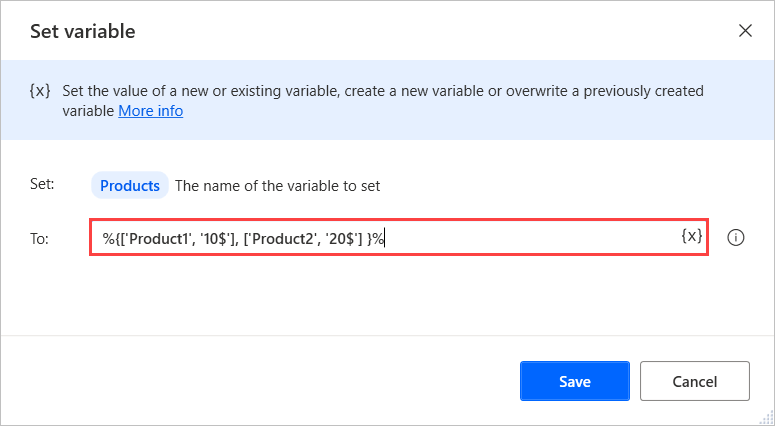
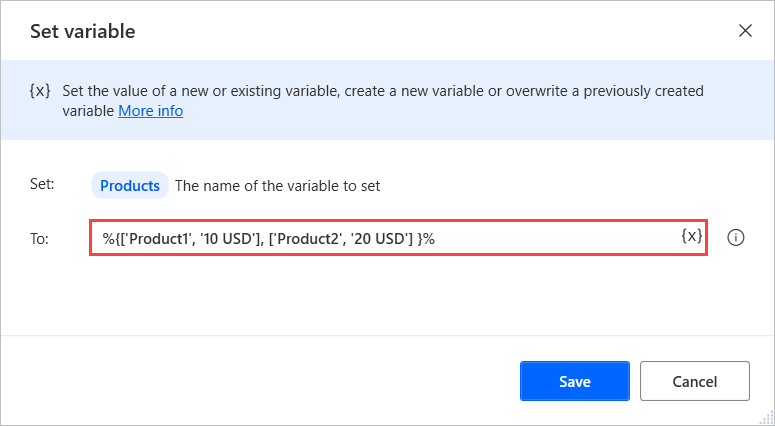
New links and screenshots in the variable datatypes article

Changed region(s): [[0.2787, 0.5188, 0.5574, 0.5798], [0.8981, 0.5188, 0.929, 0.5493]]

diff --git a/articles/ui-flows/desktop/variable-data-types.md b/articles/ui-flows/desktop/variable-data-types.md
@@ -24,11 +24,11 @@ Some of these data types are widely used throughout the application, such as **n
 
 ## Simple data types
 
-- **Text value** - Any kind of text, from email addresses to the text contents of a .txt file. You can find all the available properties of the text values in the [respective documentation article](https://review.docs.microsoft.com/en-us/power-automate/ui-flows/desktop/datatype-properties#texts). 
+- **Text value** - Any kind of text, from email addresses to the text contents of a .txt file. You can find all the available properties of the text values in the [Text data type properties](https://review.docs.microsoft.com/en-us/power-automate/ui-flows/desktop/datatype-properties#texts). 
   
   To create a **Text value** variable, use the **Set Variable action** and populate the input parameter with the desired text without any notation.
 
-  ![An example of a created Text value variable.](media\variable-data-types\create-text0variable.png)
+  ![An example of a created Text value variable.](media\variable-data-types\create-text-variable.png)
 
 - **Numeric value** - This is the type applied to numbers. Only this data type can be used in mathematical operations. 
 
@@ -46,7 +46,7 @@ Some of these data types are widely used throughout the application, such as **n
 
 - **List** - Collection of other items. Lists are the equivalent of single-dimension arrays in programming terms. 
 
-- **Datarow** - A data row contains the values of a single row of a datatable. You can find all the available properties of the datarows in the [respective documentation article](https://review.docs.microsoft.com/en-us/power-automate/ui-flows/desktop/datatype-properties#datarows). 
+- **Datarow** - A data row contains the values of a single row of a datatable. You can find all the available properties of the datarows in the [Datarow data type properties](https://review.docs.microsoft.com/en-us/power-automate/ui-flows/desktop/datatype-properties#datarows). 
 
 - **Datatable** - Contains data in a tabular form. Datatables are the equivalent of a two-dimensional array in programming terms. 
 
@@ -74,7 +74,7 @@ In the example below, the flow stores the first number of the previously display
 
 A common practice is to use a **For each** action to iterate through the items of a list.
 
- You can find all the available properties of the lists in the [respective documentation article](https://review.docs.microsoft.com/en-us/power-automate/ui-flows/desktop/datatype-properties#lists). 
+ You can find all the available properties of the lists in the [List data type properties](https://review.docs.microsoft.com/en-us/power-automate/ui-flows/desktop/datatype-properties#lists). 
 
 ### Datatables
 
@@ -88,7 +88,7 @@ Power Automate Desktop doesn't provide an action way to create directly a datata
 
 Alternatively, you can create a data table using the **Set variable** action and the programming array notation. 
 
-This notation consists of multiple single-dimension arrays separated by commas and enclosed in curly brackets. The final expression must have the following form: **%{['Product1', '10$'], ['Product2', '20$']}%**.
+This notation consists of multiple single-dimension arrays separated by commas and enclosed in curly brackets. The final expression must have the following form: **%{['Product1', '10 USD'], ['Product2', '20 USD']}%**.
 
 ![An example of a datatable variable.](media\data-tables\create-data-table-variable.png)
 
@@ -102,7 +102,7 @@ If you want to access a specific column in a datable that contains column header
 
 If you loop through a datatable with a **For Each** action, the variable that will contain the current iteration’s data is considered to be a data row. 
 
-To find infromation about the available properties of the datatables, please visit the [respective documentation article](https://review.docs.microsoft.com/en-us/power-automate/ui-flows/desktop/datatype-properties#datatables). 
+To find infromation about the available properties of the datatables, please visit the [Datatable data type properties](https://review.docs.microsoft.com/en-us/power-automate/ui-flows/desktop/datatype-properties#datatables). 
 
 ### Known issues and limitations
 
@@ -113,15 +113,15 @@ To find infromation about the available properties of the datatables, please vis
 
 - **Web browser instance** – Contains a browser instance created through the **Launch new Internet Explorer** or other browser launching actions. 
 
-  To find information about the available properties of the web browser instances, please visit the [respective documentation article](https://review.docs.microsoft.com/en-us/power-automate/ui-flows/desktop/datatype-properties#web-browser-instances). 
+  To find information about the available properties of the web browser instances, please visit the [Web browser instance data type properties](https://review.docs.microsoft.com/en-us/power-automate/ui-flows/desktop/datatype-properties#web-browser-instances). 
 
 - **Window instance** – Contains a window instance created through the **Get window** action.
 
-  To find information about the available properties of the windows instances, please visit the [respective documentation article](https://review.docs.microsoft.com/en-us/power-automate/ui-flows/desktop/datatype-properties#window-instance). 
+  To find information about the available properties of the windows instances, please visit the [Window instance data type properties](https://review.docs.microsoft.com/en-us/power-automate/ui-flows/desktop/datatype-properties#window-instance). 
 
 - **Excel instance** – Contains an Excel instance created through the **Launch Excel** action.
 
-  To find information about the available properties of the Excel instances, please visit the [respective documentation article](https://review.docs.microsoft.com/en-us/power-automate/ui-flows/desktop/datatype-properties#excel-instance). 
+  To find information about the available properties of the Excel instances, please visit the [Excel instance data type properties](https://review.docs.microsoft.com/en-us/power-automate/ui-flows/desktop/datatype-properties#excel-instance). 
 
 - **Outlook instance** - Contains an Outlook instance created through the **Launch Outlook** action.
 
@@ -129,15 +129,15 @@ To find infromation about the available properties of the datatables, please vis
 
 - **SQL connection** - Contains a connection to an SQL database established through the **Open SQL connection** action.
 
-  You can find all the available properties of the SQL connections in the [respective documentation article](https://review.docs.microsoft.com/en-us/power-automate/ui-flows/desktop/datatype-properties#sql-connection). 
+  You can find all the available properties of the SQL connections in the [SQL connection data type properties](https://review.docs.microsoft.com/en-us/power-automate/ui-flows/desktop/datatype-properties#sql-connection). 
 
 - **Exchange connection** - Contains a connection to an Exchange server established through the **Connect to Exchange server** action.
 
-  You can find all the available properties of the Exchange connections in the [respective documentation article](https://review.docs.microsoft.com/en-us/power-automate/ui-flows/desktop/datatype-properties#exchange-connection). 
+  You can find all the available properties of the Exchange connections in the [Exchange connection data type properties](https://review.docs.microsoft.com/en-us/power-automate/ui-flows/desktop/datatype-properties#exchange-connection). 
 
 - **FTP connection** - Contains an FTP connection created through the **Open FTP connection** and **Open secure FTP connection** actions.
 
-  You can find all the available properties of the FTP connections in  the [respective documentation article](https://review.docs.microsoft.com/en-us/power-automate/ui-flows/desktop/datatype-properties#ftp-connection). 
+  You can find all the available properties of the FTP connections in  the [FTP connection data type properties](https://review.docs.microsoft.com/en-us/power-automate/ui-flows/desktop/datatype-properties#ftp-connection). 
 
 ## Others
 
@@ -148,7 +148,7 @@ To find infromation about the available properties of the datatables, please vis
 - **Group member** - Represents a member of a specified Active Directory group.
 - **User info** - Contains information about a specified Active Directory user.
 
-To find all the available properties of the Active Directory data types, please visit the [respective documentation article](https://review.docs.microsoft.com/en-us/power-automate/ui-flows/desktop/datatype-properties#active-directory-entry). 
+To find all the available properties of the Active Directory data types, please visit the [Active Directory data type properties](https://review.docs.microsoft.com/en-us/power-automate/ui-flows/desktop/datatype-properties#active-directory-entry). 
 
 ### AWS
 
@@ -159,7 +159,7 @@ To find all the available properties of the Active Directory data types, please 
 - **EBS snapshot** - Represents an EBS snapshot.
 - **EBS volume** - Represents an EBS volume.
 
-To find the available properties of the AWS data types, please visit the [respective documentation article](https://review.docs.microsoft.com/en-us/power-automate/ui-flows/desktop/datatype-properties#ebs-snapshot). 
+To find the available properties of the AWS data types, please visit the [AWS data type properties](https://review.docs.microsoft.com/en-us/power-automate/ui-flows/desktop/datatype-properties#ebs-snapshot). 
 
 ### Azure
 
@@ -171,15 +171,15 @@ To find the available properties of the AWS data types, please visit the [respec
 - **Azure virtual machine info** - Contains information about an Azure virtual machine.
 - **Azure subscription** - Represents a retrieved Azure subscription.
 
-To find the available properties of the Azure data types, please visit the [respective documentation article](https://review.docs.microsoft.com/en-us/power-automate/ui-flows/desktop/datatype-properties#azure-managed-disk). 
+To find the available properties of the Azure data types, please visit the [Azure data type properties](https://review.docs.microsoft.com/en-us/power-automate/ui-flows/desktop/datatype-properties#azure-managed-disk). 
 
 ### CMD
 
 - **CMD session** - Contains a CMD session created through the **Open CMD session** action.
 
-To find the available properties of the CMD data types, please visit the [respective documentation article](https://review.docs.microsoft.com/en-us/power-automate/ui-flows/desktop/datatype-properties#cmd-session). 
+To find the available properties of the CMD data types, please visit the [CMD data type properties](https://review.docs.microsoft.com/en-us/power-automate/ui-flows/desktop/datatype-properties#cmd-session). 
 
-### Dates and Time
+### Dates and time
 
 - **Datetime** - Contains date and time information. To create a datetime variable through the **Set Variable action**, populate the input parameter with the expressions **%d"yyyy-MM-dd HH:mm:ss.ff+zzz"%**, where:
 
@@ -194,33 +194,33 @@ To find the available properties of the CMD data types, please visit the [respec
   | **ff**   | Miliseconds |
   | **zzz**  | UTC Offset	 |
 
-To find the available properties of the datetime values, please visit the [respective documentation article](https://review.docs.microsoft.com/en-us/power-automate/ui-flows/desktop/datatype-properties#dates). 
+To find the available properties of the datetime values, please visit the [Dates and time data type properties](https://review.docs.microsoft.com/en-us/power-automate/ui-flows/desktop/datatype-properties#dates). 
 
 ### Email
 
 - **Mail message** - Represents an email message. The **Retrieve emails** action populates these variables.
 
-To find the available properties of the email messages, please visit the[respective documentation article](https://review.docs.microsoft.com/en-us/power-automate/ui-flows/desktop/datatype-properties#mail-messages). 
+To find the available properties of the email messages, please visit the [Email data type properties](https://review.docs.microsoft.com/en-us/power-automate/ui-flows/desktop/datatype-properties#mail-messages). 
 
 ### Exchange
 
 - **Exchange mail message** - Represents an email message retrieved from an Exchange server. The **Retrieve Exchange email messages** action populates these variables.
 
-To find the available properties of the Exchange email messages, please visit the [respective documentation article](https://review.docs.microsoft.com/en-us/power-automate/ui-flows/desktop/datatype-properties#exchange-mail-messages). 
+To find the available properties of the Exchange email messages, please visit the [Exchange data type properties](https://review.docs.microsoft.com/en-us/power-automate/ui-flows/desktop/datatype-properties#exchange-mail-messages). 
 
 ### Files and folders
 
 - **File** - Represents a file.
 - **Folder** - Represents a folder.
 
-To find the available properties of the files and folders, please visit the [respective documentation article](https://review.docs.microsoft.com/en-us/power-automate/ui-flows/desktop/datatype-properties#files). 
+To find the available properties of the files and folders, please visit the [Files and folders data type properties](https://review.docs.microsoft.com/en-us/power-automate/ui-flows/desktop/datatype-properties#files). 
 
 ### FTP
 
 - **FTP file** - Represents an FTP file.
 - **FTP directory** - Represents an FTP directory
 
-To find the available properties of the FTP data types, please visit the [respective documentation article](https://review.docs.microsoft.com/en-us/power-automate/ui-flows/desktop/datatype-properties#ftp-files). 
+To find the available properties of the FTP data types, please visit the [FTP data type properties](https://review.docs.microsoft.com/en-us/power-automate/ui-flows/desktop/datatype-properties#ftp-files). 
 
 ### OCR
 
@@ -230,15 +230,15 @@ To find the available properties of the FTP data types, please visit the [respec
 
 - **Outlook mail message** - Represents an email Outlook message. The **Retrieve email messages from Outlook** action populates these variables.
 
-To find the available properties of the Outlook data types, please visit the [respective documentation article](https://review.docs.microsoft.com/en-us/power-automate/ui-flows/desktop/datatype-properties#outlook-mail-messages). 
+To find the available properties of the Outlook data types, please visit the [Outlook data type properties](https://review.docs.microsoft.com/en-us/power-automate/ui-flows/desktop/datatype-properties#outlook-mail-messages). 
 
 ### Terminal
 
 - **Terminal session** - Contains a terminal session created through the **Open terminal session** action.
 
-To find the available properties of the terminal data types, please visit the [respective documentation article](https://review.docs.microsoft.com/en-us/power-automate/ui-flows/desktop/datatype-properties#terminal-session). 
+To find the available properties of the terminal data types, please visit the [Terminal data type properties](https://review.docs.microsoft.com/en-us/power-automate/ui-flows/desktop/datatype-properties#terminal-session). 
 
 ### XML 
 - **XML node** - Contains the content of an XML document. The **Read XML from file** action populates these variables.
 
-To find the available properties of the XML data types, please visit the [respective documentation article](https://review.docs.microsoft.com/en-us/power-automate/ui-flows/desktop/datatype-properties#xml-node). 
+To find the available properties of the XML data types, please visit the [XML data type properties.](https://review.docs.microsoft.com/en-us/power-automate/ui-flows/desktop/datatype-properties#xml-node). 
